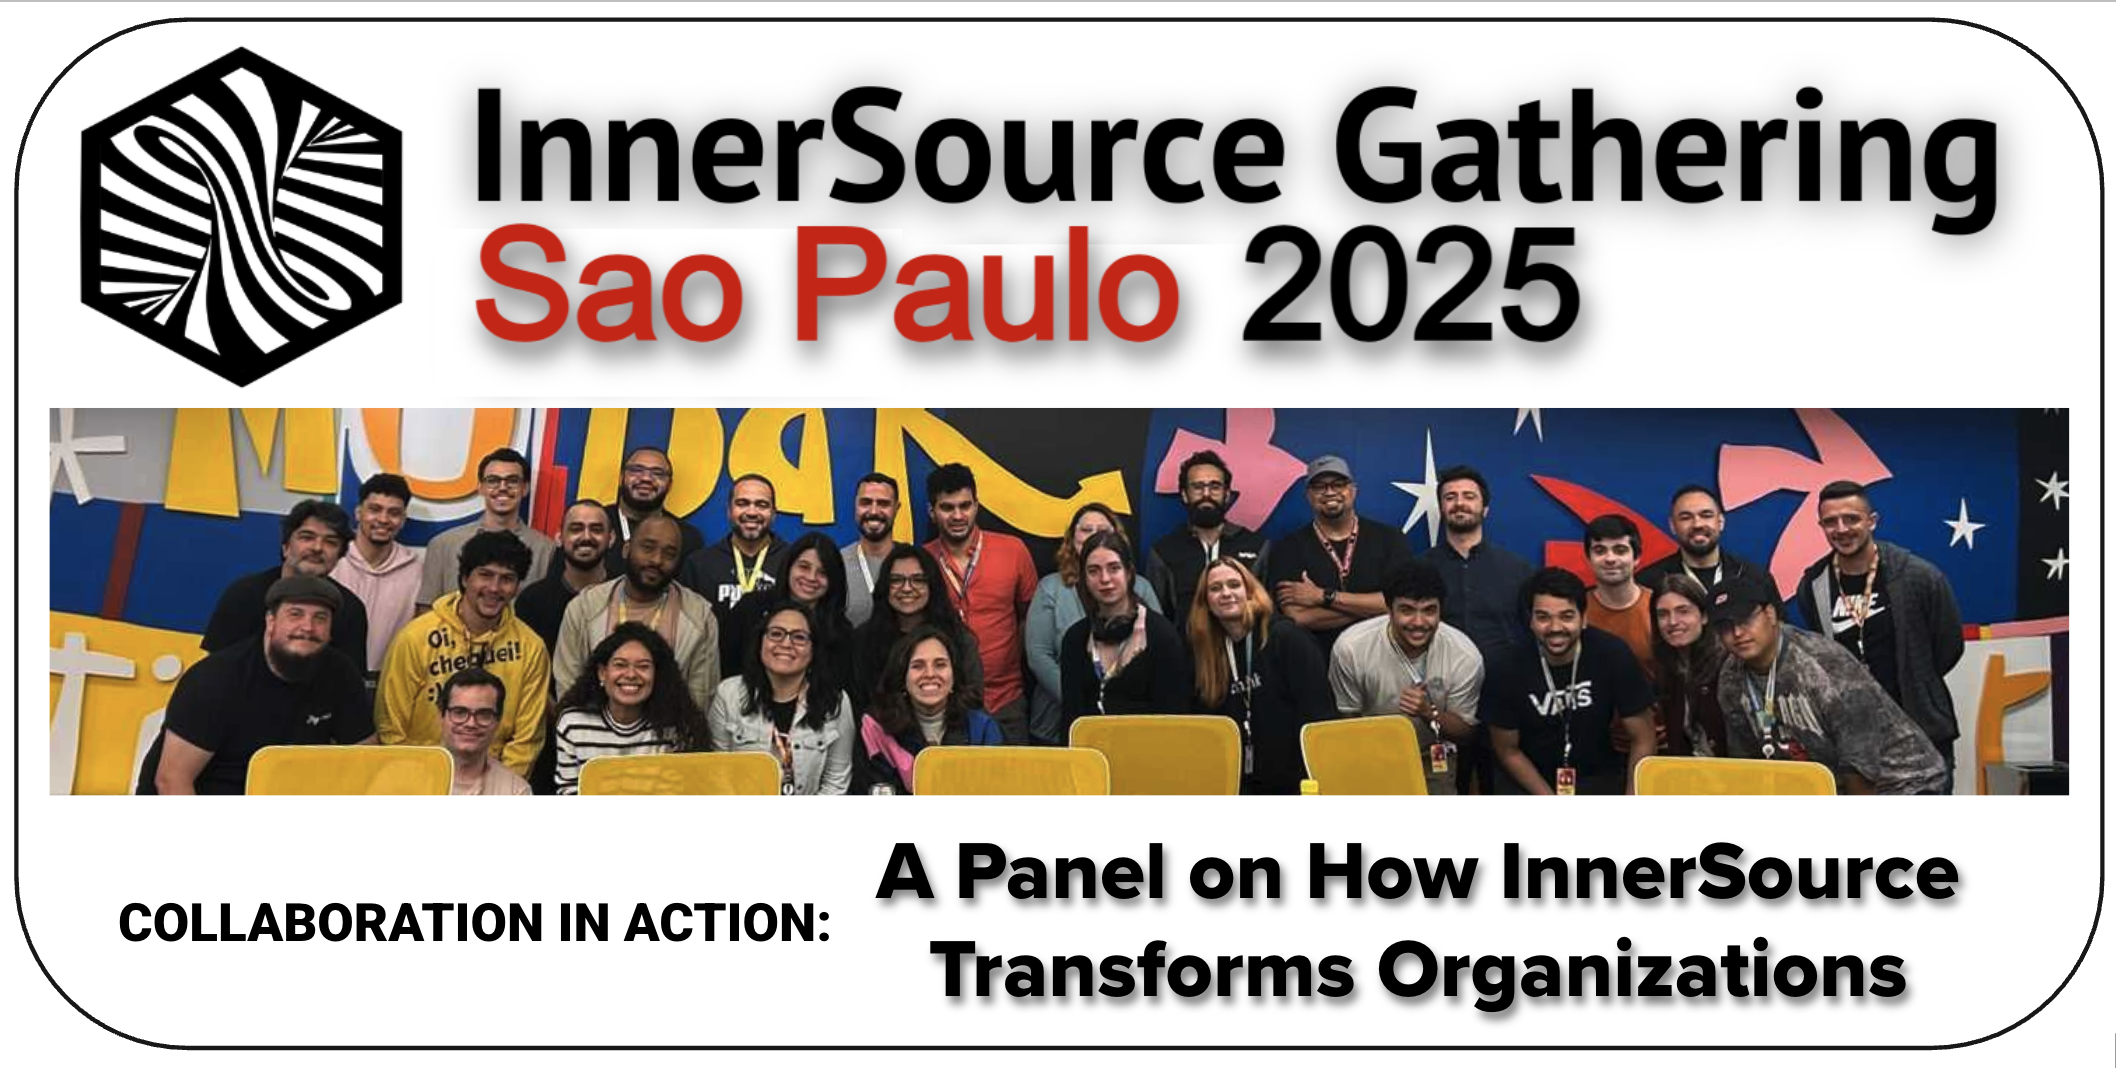
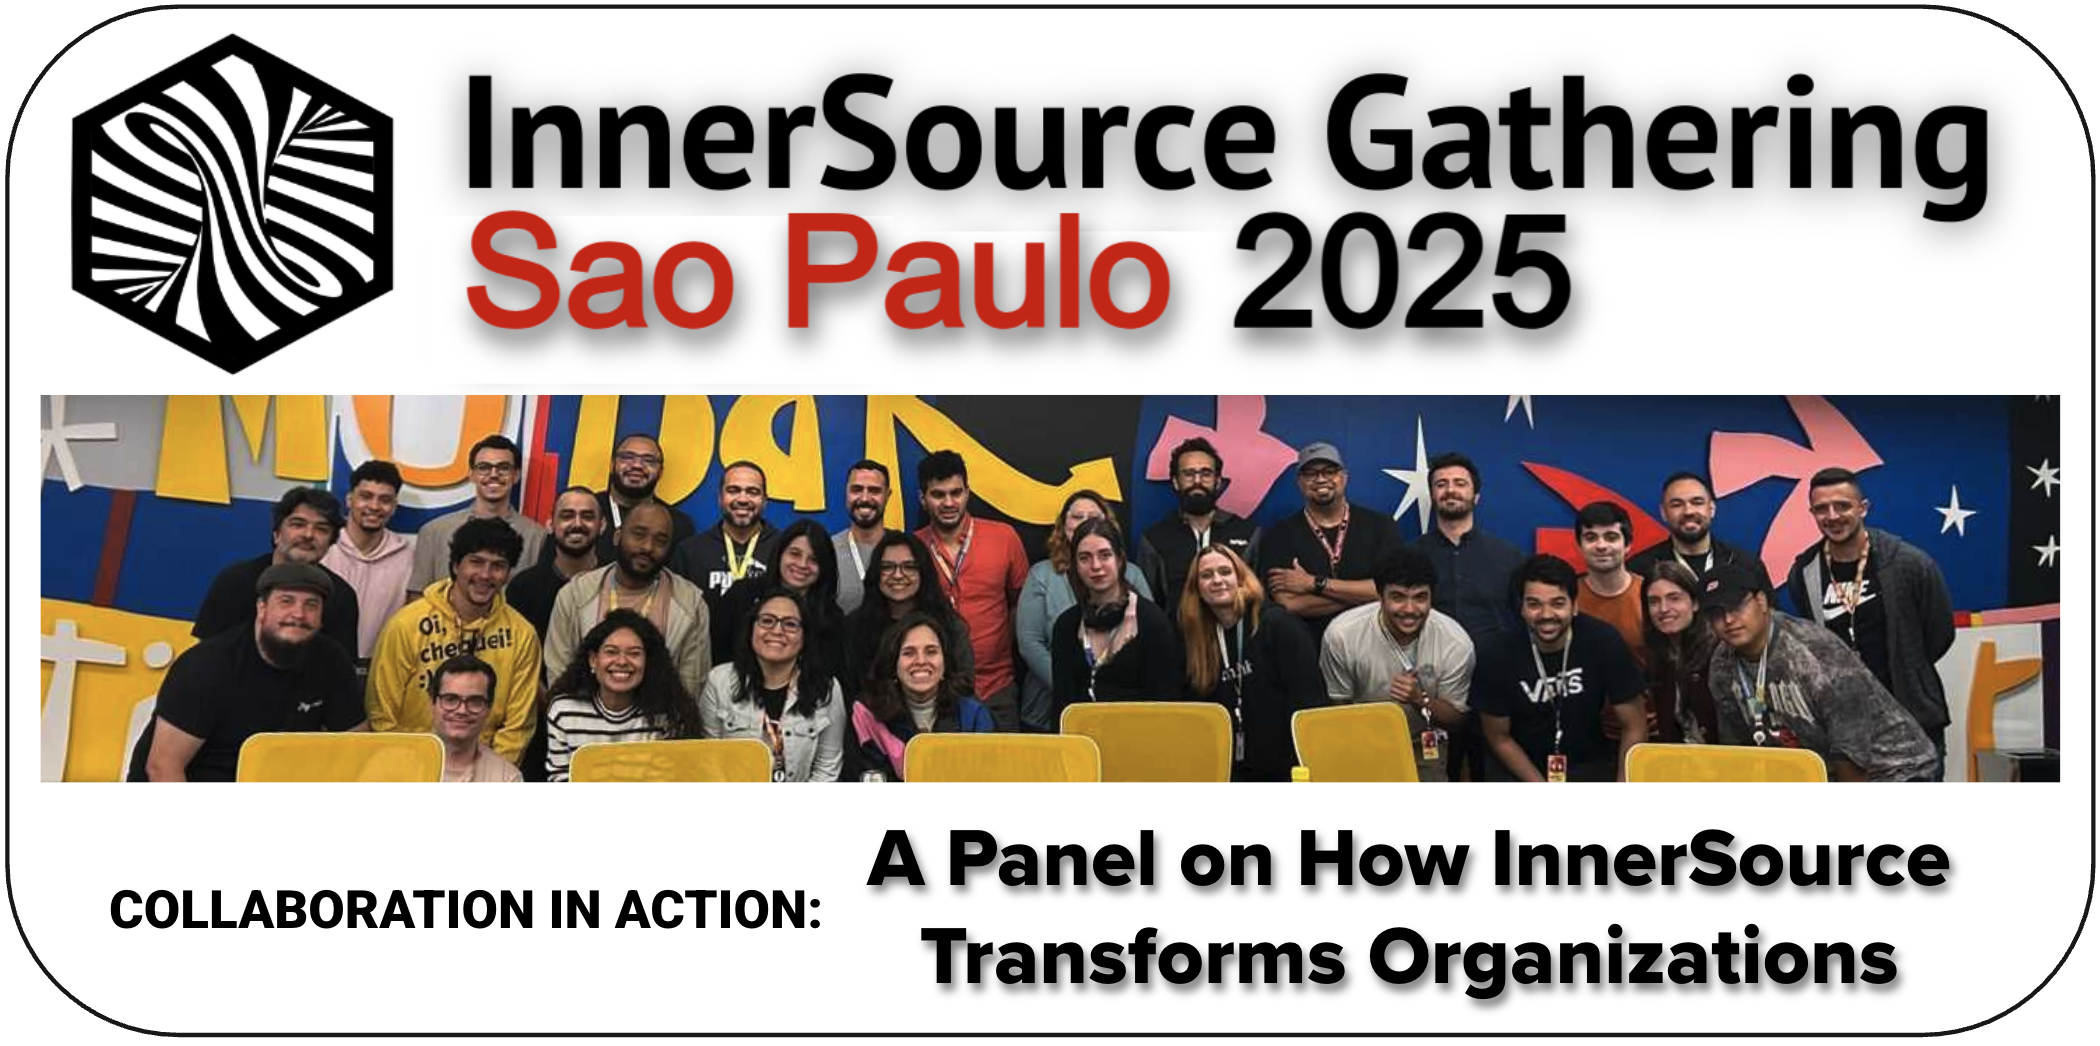
feat: Update report ISC Gathering Sao Paulo 2025
- resizing images
 - update bg image
 - update youtube video

Changed region(s): [[0.0, 0.0, 1.0, 1.0], [0.9595, 0.8872, 0.9905, 0.9484], [0.031, 0.9484, 0.0619, 0.979]]

diff --git a/landing-page/content/en/reports/sao-paulo-2025.md b/landing-page/content/en/reports/sao-paulo-2025.md
@@ -1,20 +1,27 @@
 ---
 title: "InnerSource Gathering São Paulo 2025"
 date: 2025-05-23T13:51:25+06:00
-summary: "The first Brazilian chapter InnerSource Commons Gathering was held on São Paulo - Melicidade, 2025.
+summary: "The first Brazilian chapter InnerSource Commons Gathering was held on São Paulo - Melicidade, 2025."
 draft: false
 type: "blog"
-bg_image: "/reports/images/saopaulo-2025-meli-banner.png"
+bg_image: "/reports/images/saopaulo-2025-meli-00.png"
 ---
 
+<style>
+.page-header {
+    background-size: contain !important;
+    background-position: center center !important;
+    background-repeat: no-repeat !important;
+}
+</style>
+
+<br />
 ## São Paulo InnerSource Commons Gathering @ Mercado Livre Brazil 2025
 
-The inaugural Brazilian edition of the InnerSource Gathering, held at Mercado Livre’s office in São Paulo, had more than 30 in-person and 380 virtual participants. Pamela Rosales Sedano moderated a panel discussion on how InnerSource can transform organizations. Before the panel began, Pablo Rivero discussed the adoption of InnerSource at Mercado Livre.
+The inaugural Brazilian edition of the InnerSource Gathering, held at Mercado Livre's office in São Paulo, had more than 30 in-person and 380 virtual participants. Pamela Rosales Sedano moderated a panel discussion on how InnerSource can transform organizations. Before the panel began, Pablo Rivero discussed the adoption of InnerSource at Mercado Livre.
 Fernando Correa, Arthur Fücher and Eneri Junior participated in the discussion to share the principles, main challenges and engagement strategies of InnerSource, including examples, use cases, pain points and successes. Topics such as the use of generative AI, the importance of DevRel and especially how to manage InnerSource projects in organizations were also discussed.
 
-<br />
-<br />
-<img src="/reports/images/saopaulo-2025-meli-banner.png" width="100%">
+<img src="/reports/images/saopaulo-2025-meli-banner.png" width="70%">
 <br />
 <br />
 
@@ -22,11 +29,9 @@ At the beginning of the event, it purpose was explained - to discuss how Inner S
 
 This panel discussion explores the concept of InnerSource, which involves applying open-source principles within organizations to foster internal collaboration and efficiency. Panelists from companies like Mercado Livre, Nubank, and Softplan share their experiences, highlighting the importance of community, transparency, and reducing friction for successful InnerSource adoption. They discuss the challenges of changing company culture and the potential of generative AI to streamline processes like documentation. The conversation also touches upon the role of Developer Relations in promoting InnerSource initiatives and mentions companies like SAP, Microsoft, and Toshiba as having implemented InnerSource practices.
 
-<br>
-<br>
-<img src="/reports/images/saopaulo-2025-meli-1.png" width="100%">
-<br>
-<br>
+<img src="/reports/images/saopaulo-2025-meli-1.png" width="50%">
+<br />
+<br />
 
 ### Key Moments
 
@@ -34,31 +39,20 @@ This panel discussion explores the concept of InnerSource, which involves applyi
  * A brief introduction to what InnerSource is.
  * An introduction to InnerSource Commons.
 
-<br>
-<br>
-<img src="/reports/images/saopaulo-2025-meli-2.png" width="100%">
-<br>
-<br>
+<img src="/reports/images/saopaulo-2025-meli-2.png" width="50%">
+<img src="/reports/images/saopaulo-2025-meli-3.png" width="50%">
+<br />
+<br />
 
 #### How InnerSource is being applied within Mercado Livre - Pablo Rivero
 A presentation by Pablo Ribeiro that included discussing challenges faced during their architecture changes and growth, such as knowledge silos, low documentation levels, and aligning backlogs across teams. Mercado Livre's strategy involved two phases: "InnerSource ready" to prepare repositories and fostering contributions.
 
-<br>
-<br>
-<img src="/reports/images/saopaulo-2025-meli-3.png" width="100%">
-<br>
-<br>
 
 #### The introduction of the panelists - Pamela Rosales
 Fernando Correa (OSPO member at Mercado Livre, member of InnerSource Commons Foundation), Artur Furcher (Developer at Nubank, organizer of Closure BR, member of InnerSource Commons Foundation) and Eneri Junior (Java developer at Softplan, contributor to InnerSource Commons), along with the moderator Pamela Rosales (from the KMIT/Developer Relations team at Mercado Livre)
 
-<br>
-<br>
-<img src="/reports/images/saopaulo-2025-meli-4.png" width="100%">
-<br>
-<br>
 
-### We have a panel discussion covering several key topics:
+### The panel discussion covered several important topics:
 
  * Fundamental principles of InnerSource.
  * Challenges of implementing InnerSource.
@@ -67,15 +61,17 @@ Fernando Correa (OSPO member at Mercado Livre, member of InnerSource Commons Fou
  * The role of Developer Relations (DevRel).
  * Examples of companies implementing InnerSource.
 
+<img src="/reports/images/saopaulo-2025-meli-5.png" width="60%">
+<br />
+<br />
+
+### Recording
 <br>
-<br>
-[Video](https://youtu.be/9tIWbOV4OmY)
-<br>
+<div class="youtube">
+ <div class="inner">
+<iframe width="560" height="315" src="https://www.youtube.com/embed/9tIWbOV4OmY" title="YouTube video player" frameborder="0" allow="accelerometer; autoplay; clipboard-write; encrypted-media; gyroscope; picture-in-picture; web-share" referrerpolicy="strict-origin-when-cross-origin" allowfullscreen></iframe>
+</div>
+</div>
 <br>
 
-<br>
-<br>
-<img src="/reports/images/saopaulo-2025-meli-5.png" width="100%">
-<br>
-<br>
 
